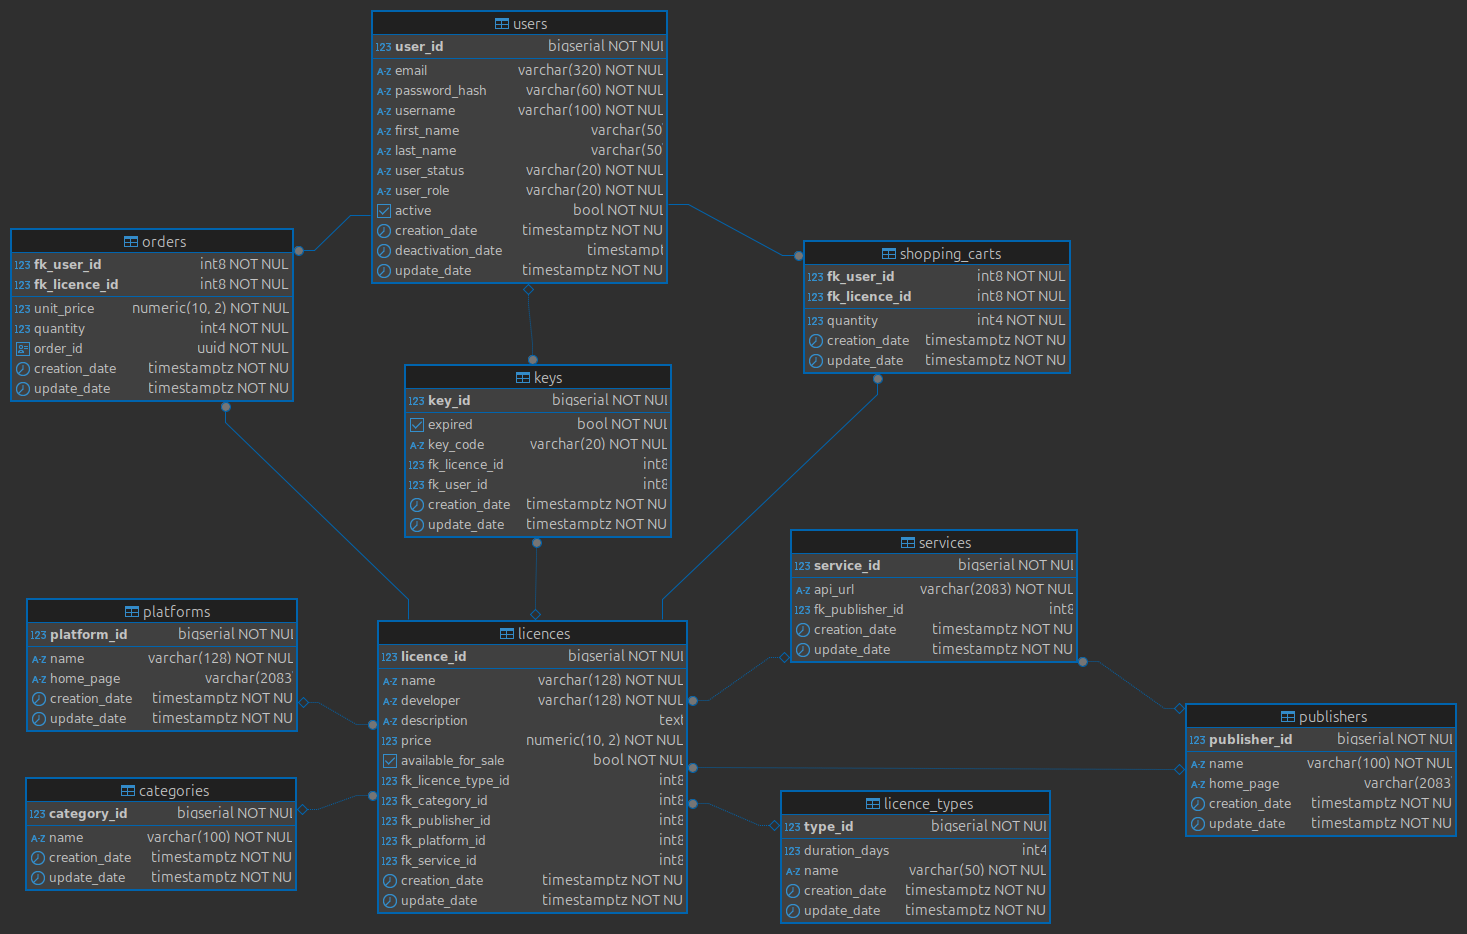
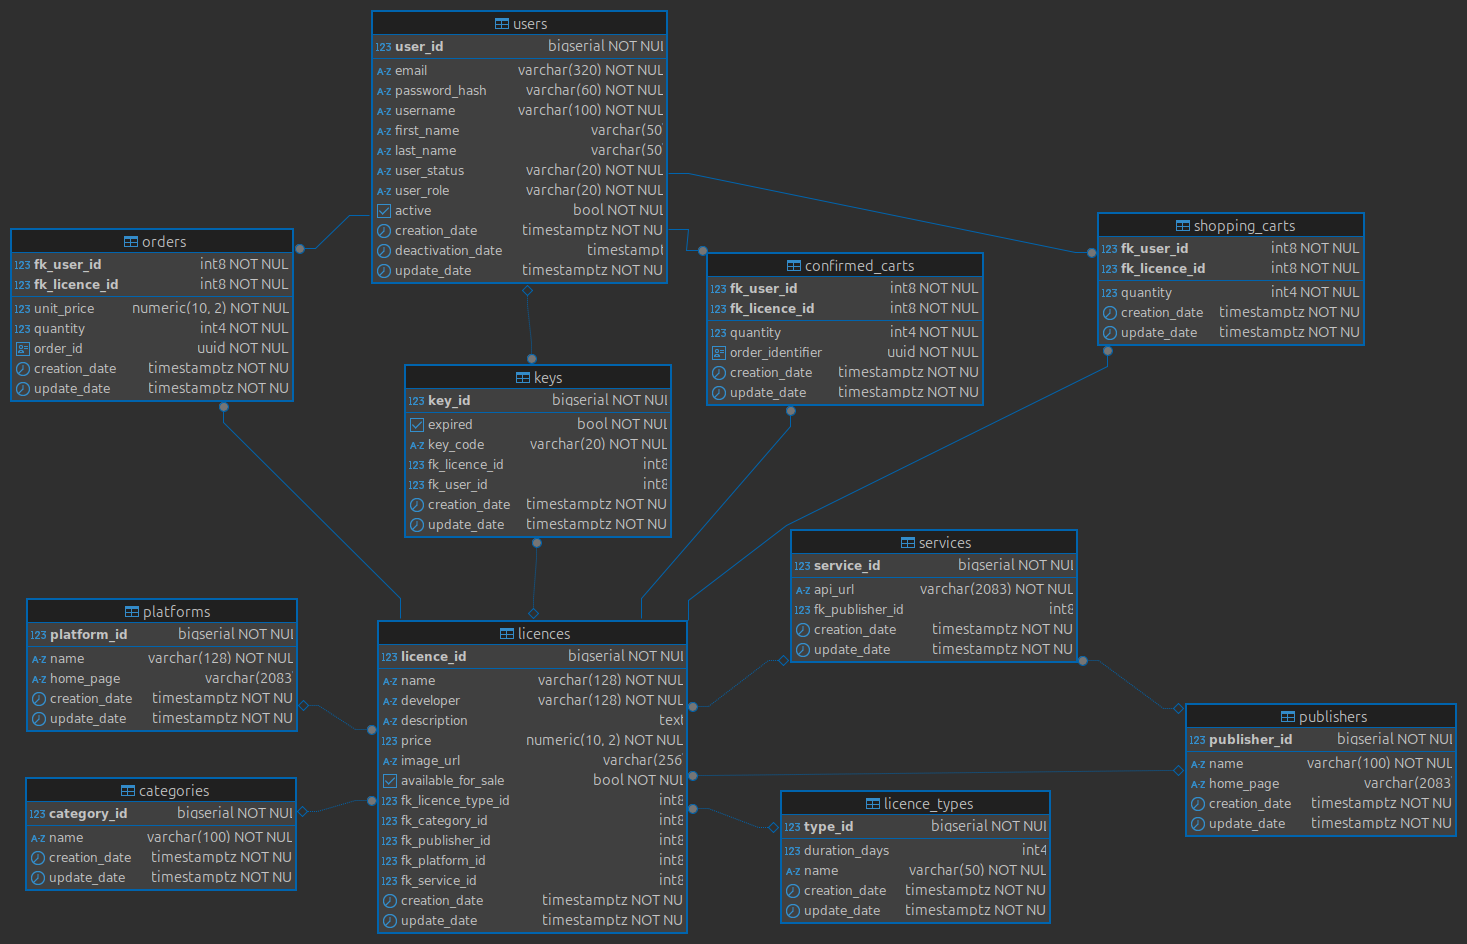
Updates README.md.

diff --git a/README.md b/README.md
@@ -38,6 +38,8 @@
     8. platforms - platforma na której można zrealizować/aktywować klucz.
     9. shopping_carts - zawartość koszyków zakupowych użytkowników
     10. orders - zamówienia złożone przez użytkowników
+    11. confirmed_carts - zatwierdzone koszyki czekające na przetworzenie na zamówienie - pozwalają użytkownikom kontynuowanie 
+        zakupów bez wpływu na nie przetworzone zamówienie
 
 ### 2.3. Diagram
     
